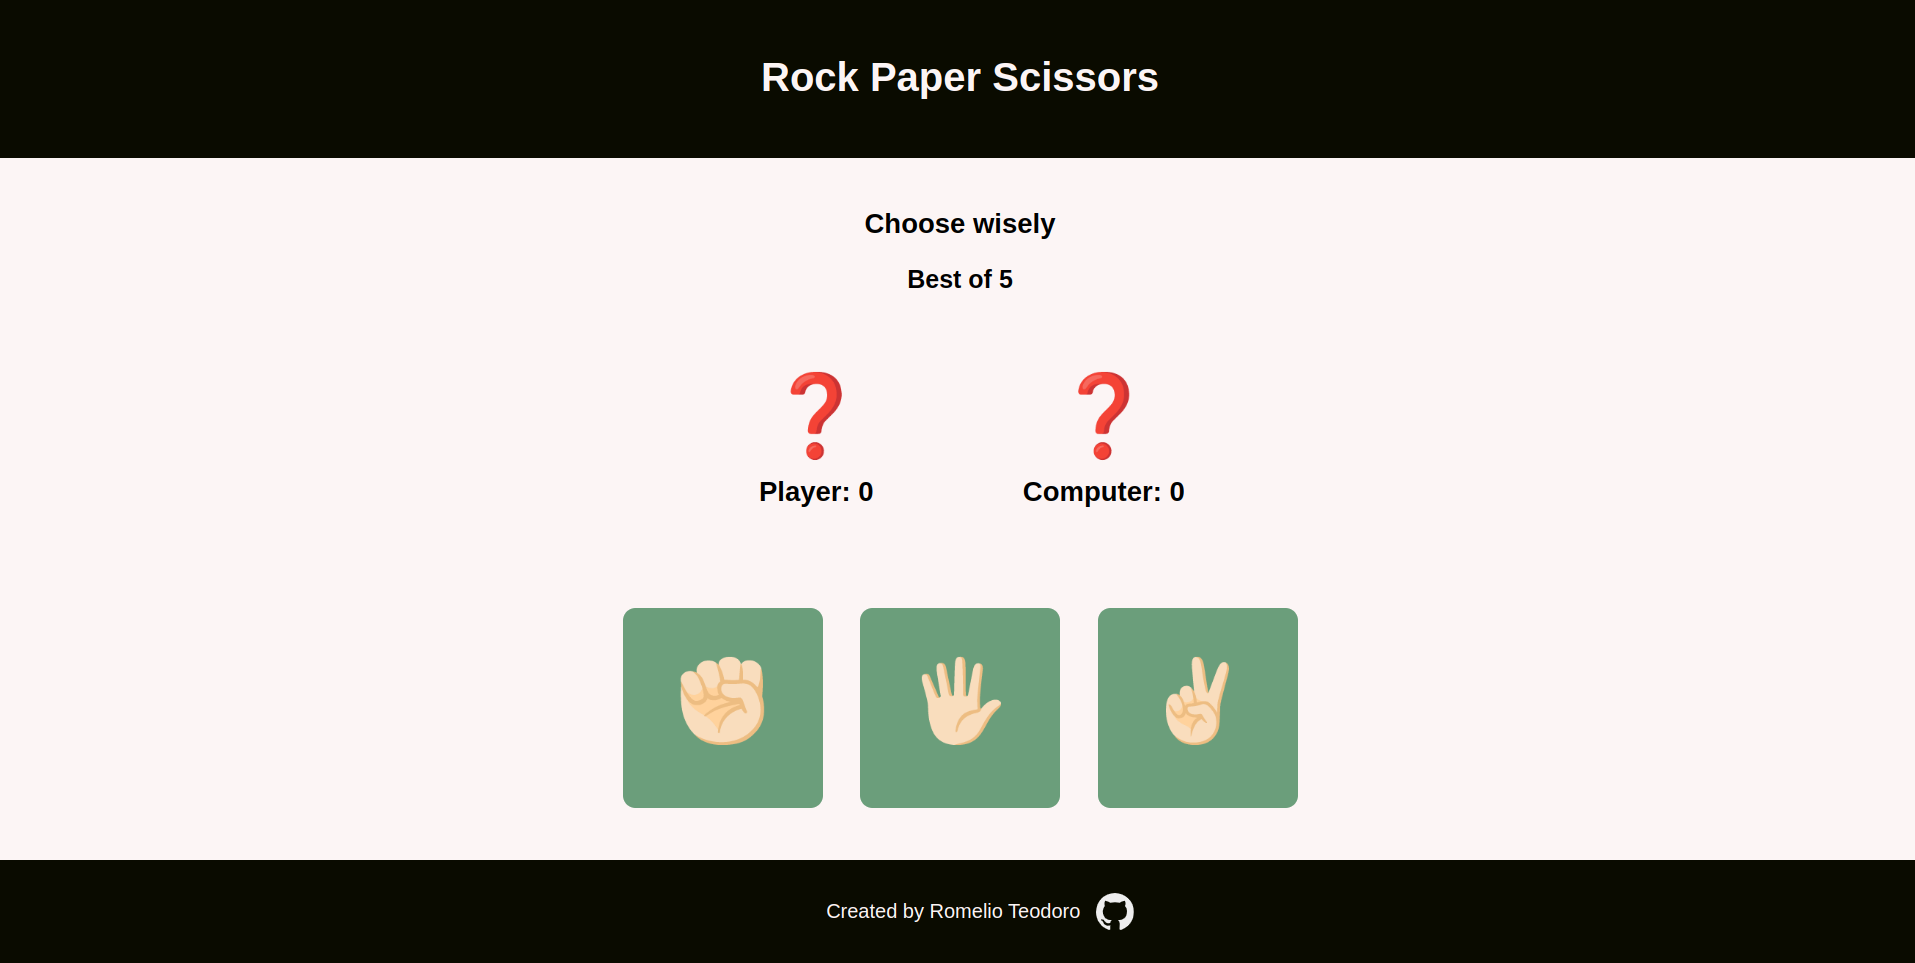
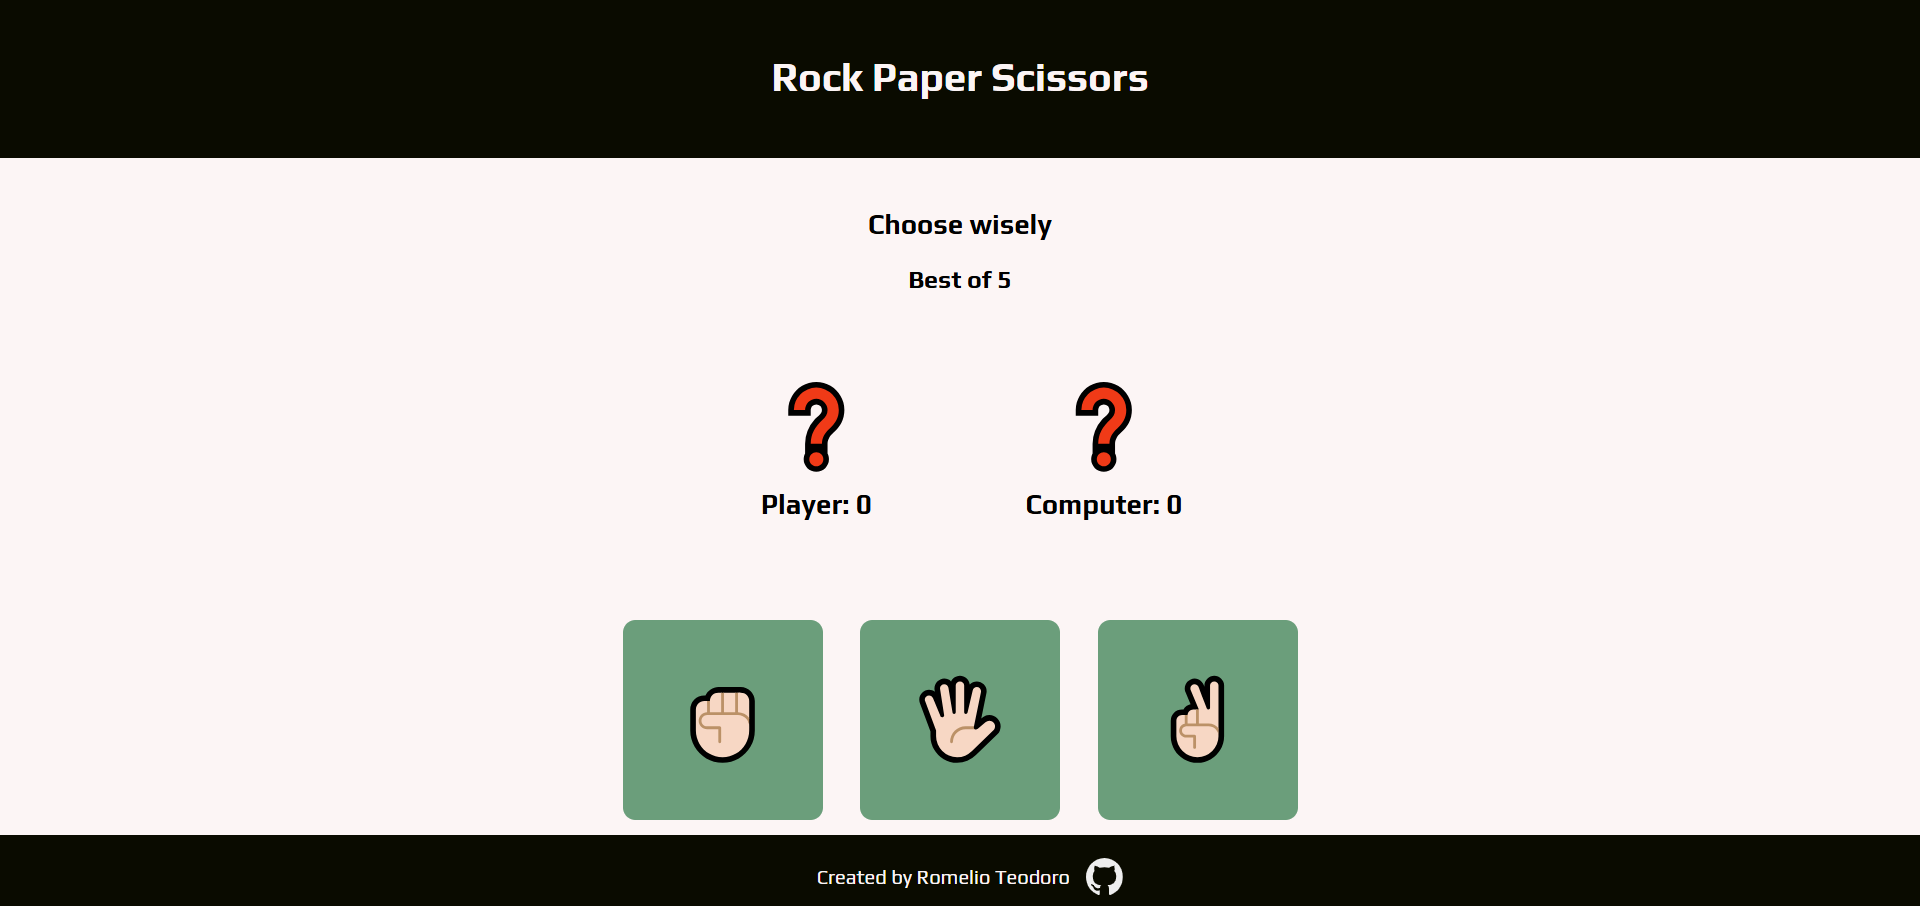
fixed font-family and screenshots

diff --git a/index.html b/index.html
@@ -5,6 +5,9 @@
     <meta name="viewport" content="width=device-width, initial-scale=1.0">
     <title>Rock Paper Scissors</title>
     <link rel="stylesheet" href="src/style.css">
+    <link rel="preconnect" href="https://fonts.googleapis.com">
+    <link rel="preconnect" href="https://fonts.gstatic.com" crossorigin>
+    <link href="https://fonts.googleapis.com/css2?family=Play:wght@400;700&family=Roboto:ital,wght@0,100..900;1,100..900&display=swap" rel="stylesheet">
     <link rel="shortcut icon" href="assets/favicon.ico" />
 </head>
 <body>

diff --git a/src/style.css b/src/style.css
@@ -1,5 +1,5 @@
 body {
-    font-family: Arial, Helvetica, sans-serif;
+    font-family: "Play", serif;
     background-color: #fcf5f5;
     margin: 0;
 }
@@ -105,7 +105,7 @@ footer {
     gap: 0.8rem;
     bottom: 0;
     width: 100%;
-    padding: 1rem;
+    padding: 0.5rem;
     background-color: #0a0b00;
     color: #fcf5f5;
     text-align: center;
